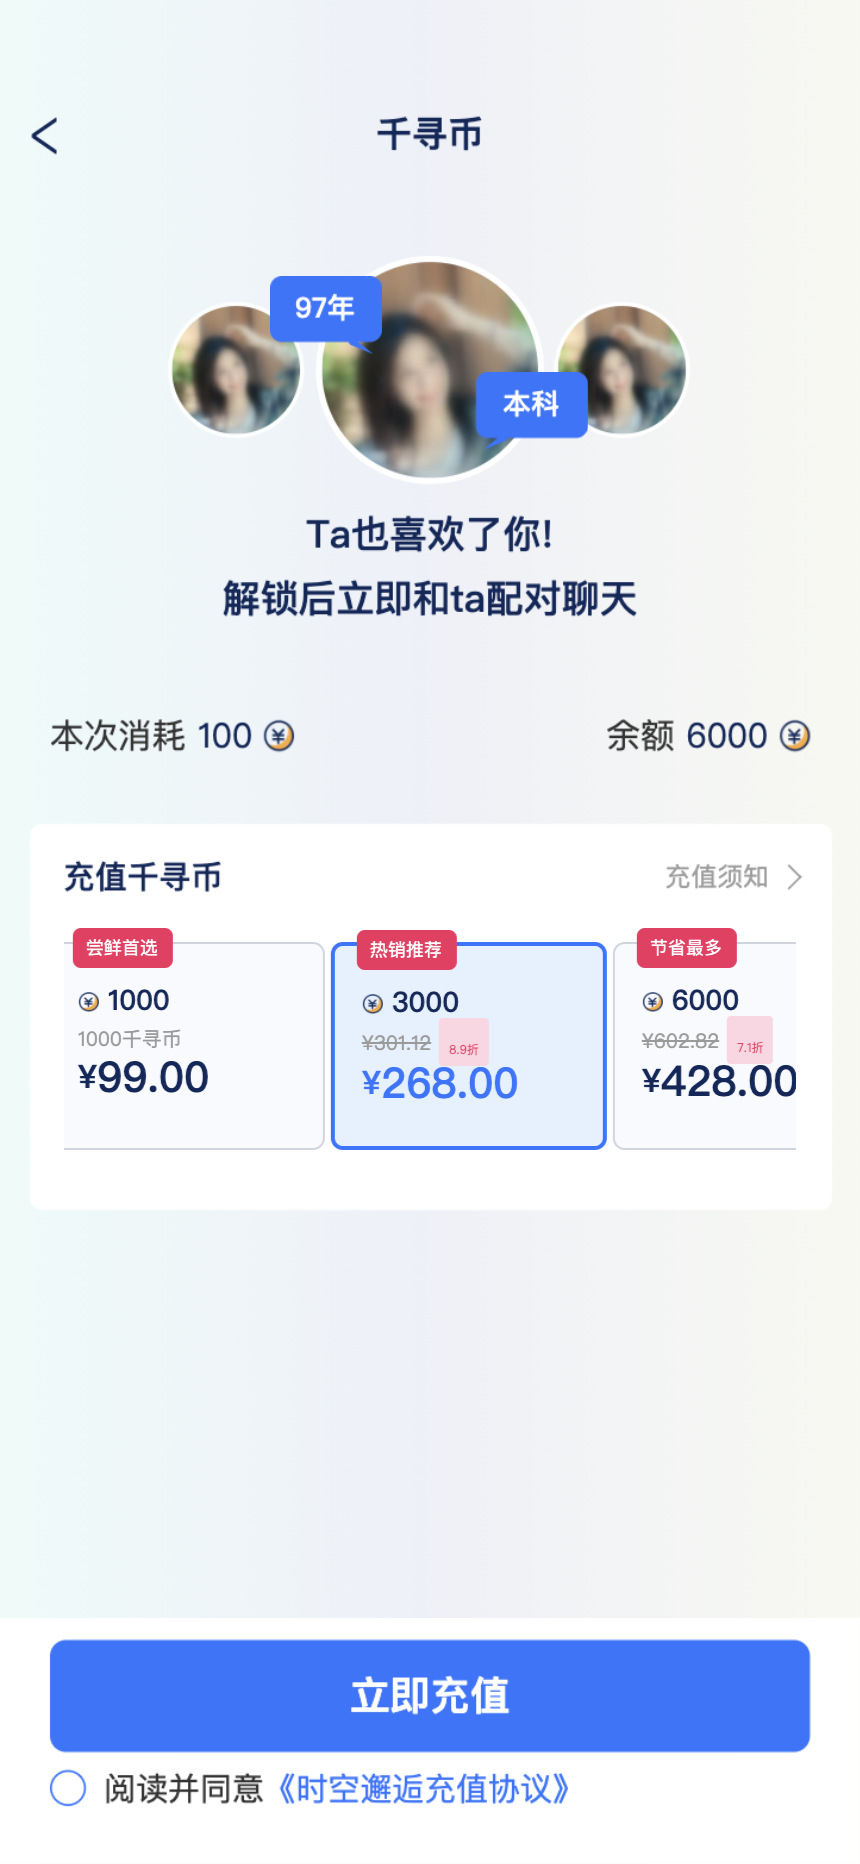
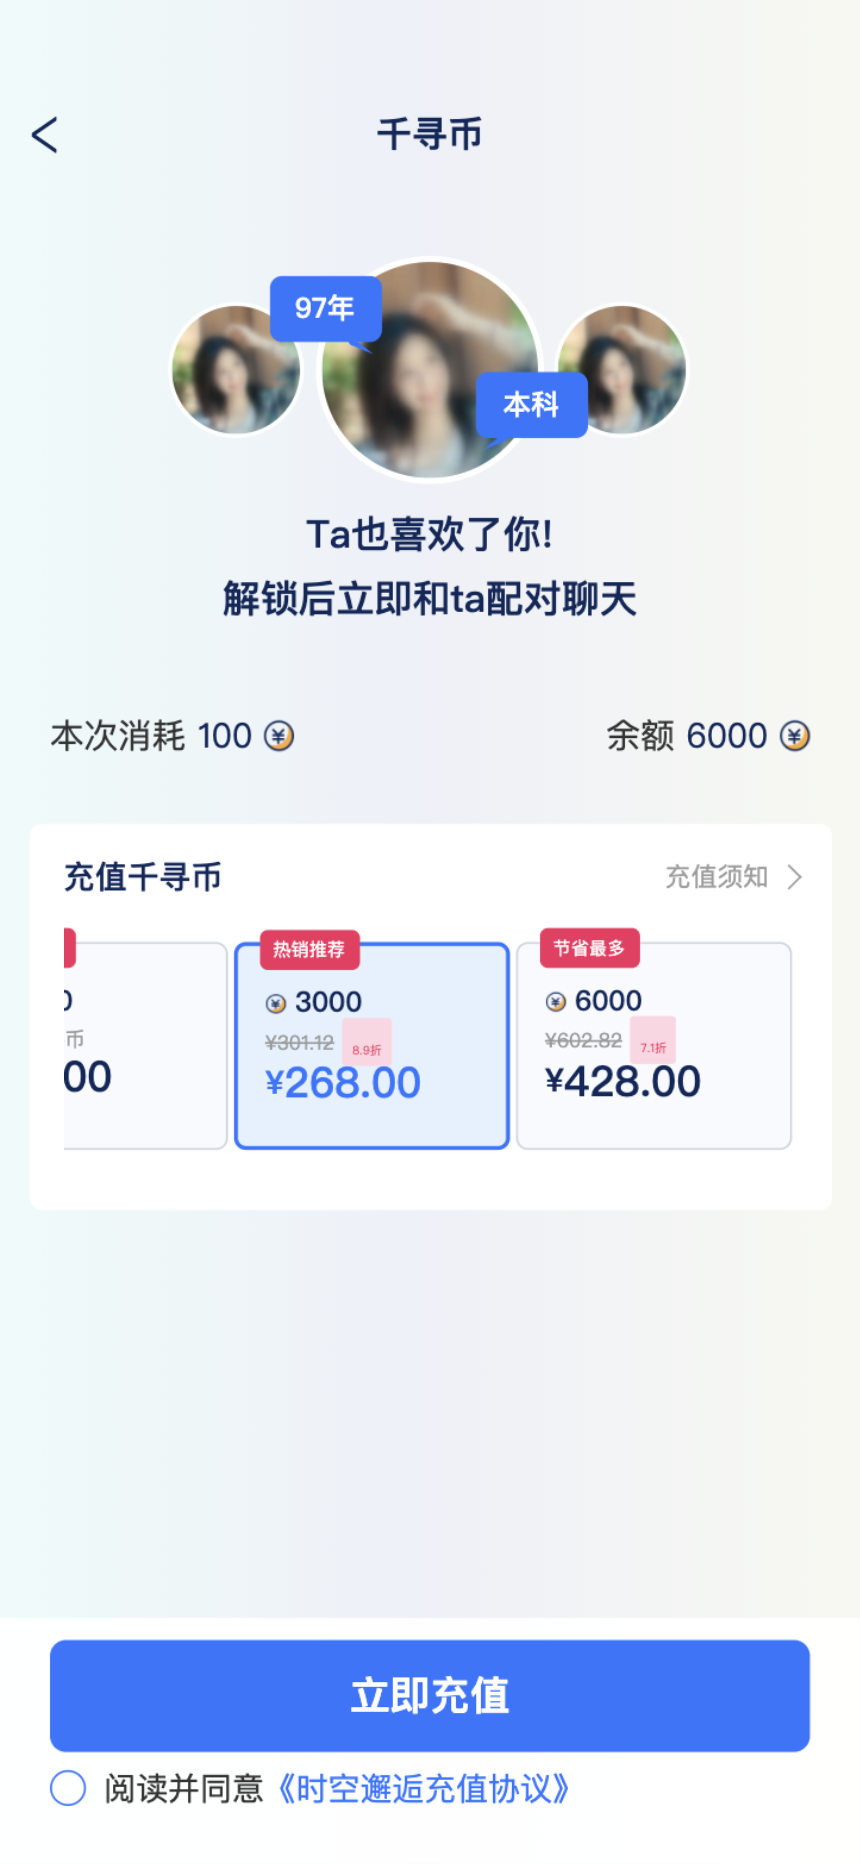
docs: 验收报告与截图补充

diff --git a/docs/验收报告/2026-07-13-心动单人解锁充值页-蓝湖还原-acceptance.md b/docs/验收报告/2026-07-13-心动单人解锁充值页-蓝湖还原-acceptance.md
@@ -1,0 +1,83 @@
+# 心动单人解锁充值页蓝湖还原验收报告
+
+## 1. 验收范围
+
+- 蓝湖设计：`ffa585ea-0136-407a-9930-ae8c26da0128`（千寻币-充值）。
+- 心动单人解锁弹窗点击“只看ta”进入独立充值页，不复用“我的-千寻币”资产中心页。
+- 独立页按蓝湖还原三头像关系场景、消耗与余额、充值套餐、底部充值区和协议确认弹层。
+- 页面使用真实组件与真实点击事件，不使用整页截图、透明热区或不可见控件冒充交互。
+
+## 2. 根因与路由边界
+
+原实现把“只看ta”直接导航到通用 `/pages/coins/index`，`sourceScene` 仅影响支付成功后的返回行为，页面结构仍是余额卡、用途卡等资产中心内容，因此与单人解锁设计稿不一致。
+
+修复后路由边界如下：
+
+| 场景 | 页面 | 结果 |
+| --- | --- | --- |
+| 我的-千寻币 | `/pages/coins/index` | 保持原通用资产中心，不修改 |
+| 心动弹窗-只看ta | `/pages/coins/unlock-recharge?sourceScene=likes_unlock_one` | 新增独立场景充值页 |
+
+## 3. 设计基线与组件映射
+
+| 蓝湖区块 | 运行态组件 | 结果 |
+| --- | --- | --- |
+| 渐变背景与自定义导航 | `LanhuNav` + 页面渐变容器 | 已还原 |
+| 三头像、年龄与学历气泡 | `UnlockSceneHero` | 已还原，气泡尾角为真实组件 |
+| “Ta也喜欢了你”关系文案 | `UnlockSceneHero` | 已还原 |
+| 本次消耗与实时余额 | `UnlockSummary` | 已还原，余额使用接口数据 |
+| 横向充值套餐 | `RechargePanel` | 已还原，左卡露出且 3000 套餐初始居中 |
+| 套餐卡片与推荐标签 | `RechargePackageCard` | 已还原并支持真实选择 |
+| 立即充值与协议 | `RechargePayBar` | 已还原，真实按钮和复选控件 |
+| 未勾选协议状态 | `AgreementConfirmSheet` | 已还原并绑定继续支付流程 |
+
+## 4. 运行态截图证据
+
+- [单人解锁弹窗入口](./截图证据/2026-07-13-心动单人解锁充值/微信运行-单人解锁弹窗-入口.png)
+- [心动单人解锁充值最终首屏](./截图证据/2026-07-13-心动单人解锁充值/微信运行-心动单人解锁充值-最终首屏.png)
+- [未勾选协议确认弹层](./截图证据/2026-07-13-心动单人解锁充值/微信运行-心动单人解锁充值-协议确认.png)
+
+微信自动化截图不包含模拟器外层状态栏和右上角原生胶囊；页面导航尺寸由微信运行时菜单按钮信息计算，原生胶囊仍由微信环境呈现。
+
+## 5. 交互验收
+
+| 操作 | 期望结果 | 微信运行态结果 |
+| --- | --- | --- |
+| 单人解锁弹窗点击“只看ta” | 进入 `pages/coins/unlock-recharge` | 通过 |
+| 跳转场景参数 | `sourceScene=likes_unlock_one` | 通过 |
+| 点击可用充值套餐 | 切换选中态并同步支付套餐 | 通过 |
+| 未勾选协议点击“立即充值” | 展示协议确认弹层 | 通过，已截图 |
+| 接口套餐未加载完成 | 不使用蓝湖占位套餐创建订单 | 通过，负 ID 门禁拦截 |
+| 通用千寻币资产页 | 不被单人解锁场景覆盖 | 通过 |
+
+## 6. 素材与数据验收
+
+- 蓝湖 MCP 对该 Sketch 节点返回完整设计图和 token，但没有可用独立 slice/layer；已登记素材层缺口。
+- 头像使用仓库既有蓝湖模糊人物素材，金币图标使用 OSS 清单 `miniappOssIcons.coinGold`，未新增包内非底部静态图标。
+- 页面首次渲染使用蓝湖套餐占位保证结构稳定；接口返回后展示真实余额与真实套餐。
+- 蓝湖基线余额为 `0`，运行截图余额为接口实时值 `6000`，属于动态数据差异，不是布局偏差。
+- 蓝湖专属页协议标题为 `《时空邂逅充值协议》`，通用资产页现有标题为 `《千寻币充值协议》`；本页按蓝湖实现，最终法务口径仍需产品确认。
+
+## 7. 自动验证结果
+
+- `node scripts/validate-heart-message-lanhu.mjs`：通过。
+- 微信开发者工具自动化入口跳转：通过，目标为 `pages/coins/unlock-recharge`，场景参数正确。
+- 微信开发者工具协议弹层：通过，已生成运行态截图。
+- `npx eslint src/pages/coins/unlock-recharge.tsx src/pages/community/index.tsx`：通过。
+- `npm run assets:verify-icons`：通过，OSS 图标字节校验 `45/45`。
+- `npx taro build --type weapp`：通过；仅保留既有大图资源体积提示，不影响编译。
+- `git diff --check`：通过。
+- 热编译：通过，持续监听中。
+- 后台：`http://127.0.0.1:8080/doc.html` 返回 HTTP 200。
+
+## 8. 差异清单与还原度
+
+| 维度 | 结论 | 评分 |
+| --- | --- | ---: |
+| 结构与布局 | 关系场景、消费摘要、套餐卡和底部操作区完整；套餐初始定位与蓝湖一致 | 98% |
+| 色彩与字体 | 主色、渐变、字号、行高和卡片状态与蓝湖接近 | 97% |
+| 图标与素材 | 使用既有蓝湖头像素材与 OSS 金币图标；MCP 无独立 slice | 96% |
+| 交互流程 | 独立路由、套餐选择、协议确认与支付门禁均为真实组件 | 100% |
+| 综合还原度 | 微信运行态与蓝湖全图人工对照评分 | **98%** |
+
+剩余差异仅包括接口动态余额/套餐内容，以及蓝湖 MCP 未提供独立图层。结构、视觉层级和目标交互均已完成闭环。

diff --git a/bobo-todo.md b/bobo-todo.md
@@ -1,3 +1,11 @@
+92420202MAEPCNN18J
+
+所有枚举都是字典配置，不要偷懒写死，细节流程都打磨好，流程都是连贯通的，  还有很多文案提示也是哦，不是写死的哦，都是动态配置的，你需要取接口里面的，不能写死哦
+
+
+1:1 蓝湖 mcp 还原 https://lanhuapp.com/web/#/item/project/stage?pid=d9c9e50f-fee5-47ca-bd6b-ae05c0d5332b&image_id=e3ab4fcf-8f3a-44da-b997-e86d13a295fc  消息 15 个页面 这一次全 mock，并梳理出需要的接口。生成文档，后面接口好了，引用文档达到闭环
+注意切图，要完美的还原。落地。一模一样
+
 1、现在我们来开始编写PRD-04的技术文档；
 2、自查技术方案是否有问题，排查是否依赖其他PRD地方，忽略或者引用；
 3、基于PRD+技术方案编写测试用例；

diff --git a/docs/验收报告/2026-07-13-心动访客会员独立页-蓝湖还原-acceptance.md b/docs/验收报告/2026-07-13-心动访客会员独立页-蓝湖还原-acceptance.md
@@ -32,7 +32,7 @@
 | 操作 | 期望路由 | 微信运行态结果 |
 | --- | --- | --- |
 | 点击顶部相互喜欢图标 | `pages/heart/mutual` | 通过 |
-| 点击“只看ta(100 Q)” | `pages/coins/index`，参数 `sourceScene=likes_unlock_one` | 通过 |
+| 点击“只看ta(100 Q)” | `pages/coins/unlock-recharge`，参数 `sourceScene=likes_unlock_one` | 通过，已改为独立场景充值页 |
 | 点击“解锁全部访客” | `pages/heart/membership-unlock` | 通过 |
 | 点击弹窗“解锁全部” | `pages/heart/membership-unlock` | 静态门禁通过 |
 | 占位套餐点击开通 | 不创建真实订单 | 通过，提示稍后重试 |
